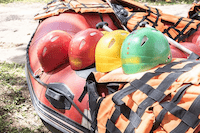
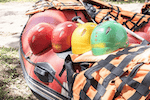
resizing images

diff --git a/wwr/index.html b/wwr/index.html
@@ -52,7 +52,7 @@
                 </figure>
                 <figure>
                     <a href="contact.html">
-                        <img src="images/security-icon.png" alt="Shield icon representing top safety standards">
+                        <img src="images/security-icon (1).png" alt="Shield icon representing top safety standards">
                     </a>
                     <figcaption>TOP SAFETY <br>STANDARDS</figcaption>
                 </figure>

diff --git a/wwr/about.html b/wwr/about.html
@@ -45,7 +45,7 @@
                 helping as guides soon grew into a small, trusted outfitter.
             </p>
 
-            <img src="images/history_section.jpg" alt="Equipment to do rafting on a red boat">
+            <img src="images/history_section.png" alt="Equipment to do rafting on a red boat">
 
             <p class="paragraph2">
                 Even as we’ve expanded, we remain proudly family-owned and committed to the same values we started

diff --git a/wwr/styles/rafting.css b/wwr/styles/rafting.css
@@ -409,7 +409,7 @@ button {
 }
 
 .choose-us-images img{
-    width: 200px;
+    width: 150px;
 }
 
 .guest-section h2{
@@ -449,7 +449,7 @@ figcaption{
 }
 
 .our-story-content img {
-    width: 300px;
+    width: 400px;
     height: auto;
 }
 
